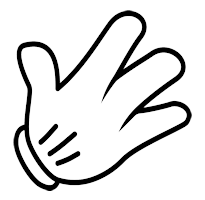
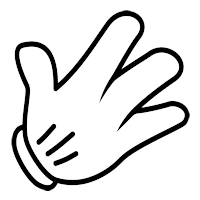
Added Opponent Hand

diff --git a/script.js b/script.js
@@ -16,6 +16,22 @@ function display(x){
     
     }
 
+let img = document.createElement('img');
+function picture(x){
+    img.style.width = '90%'
+    img.style.height = '90%'
+    img.style.padding = '5px'
+    if(x === 'Rock'){
+        img.src = 'imgs/rock.png'
+        document.getElementById('opponentHand').appendChild(img)
+    } else if (x === 'Paper'){
+        img.src = 'imgs/paper.png'
+        document.getElementById('opponentHand').appendChild(img)
+    } else {
+            img.src = 'imgs/scissors.png'
+            document.getElementById('opponentHand').appendChild(img)
+        }
+}
 
 function rock(){
     let result = ' '
@@ -28,6 +44,7 @@ function rock(){
         result = 'IT\'S A TIE'
     }    
     display(a)
+    picture(a)
     return result
 }
 
@@ -42,6 +59,7 @@ function paper(){
         result = 'IT\'S A TIE'
     }
     display(a)
+    picture(a)
     return result
 }
 
@@ -56,6 +74,7 @@ function scissors(){
         result = 'IT\'S A TIE'
     }
     display(a)
+    picture(a)
     return result
 }
 

diff --git a/style.css b/style.css
@@ -17,6 +17,7 @@ h1{
     padding: 5px;
     padding-left: 10px;
     margin: 20px;
+    width: fit-content;
 }
 h2{
     font-family: 'Cinzel', serif;
@@ -29,6 +30,15 @@ h2{
     padding: 5px;
 }
 
+#opponentHand{
+    background-color: rgb(195, 163, 82);
+    border-radius: 50%;
+    padding: inherit;
+    width: 101px;
+    height: 101px;
+    margin-left: 10px;
+    
+}
 button {
     font-weight: bold;
     display: flex;
@@ -124,5 +134,6 @@ h3{
     width: 500px;
     margin-top: 7px;
     display: flex;
+    text-align: center;
   
 }

diff --git a/index.html b/index.html
@@ -22,6 +22,7 @@
                 
             </div>
         <p id='result'></p>
+        <div id='opponentHand'></div>
         <div id='opponent'></div>
     </div>
 
